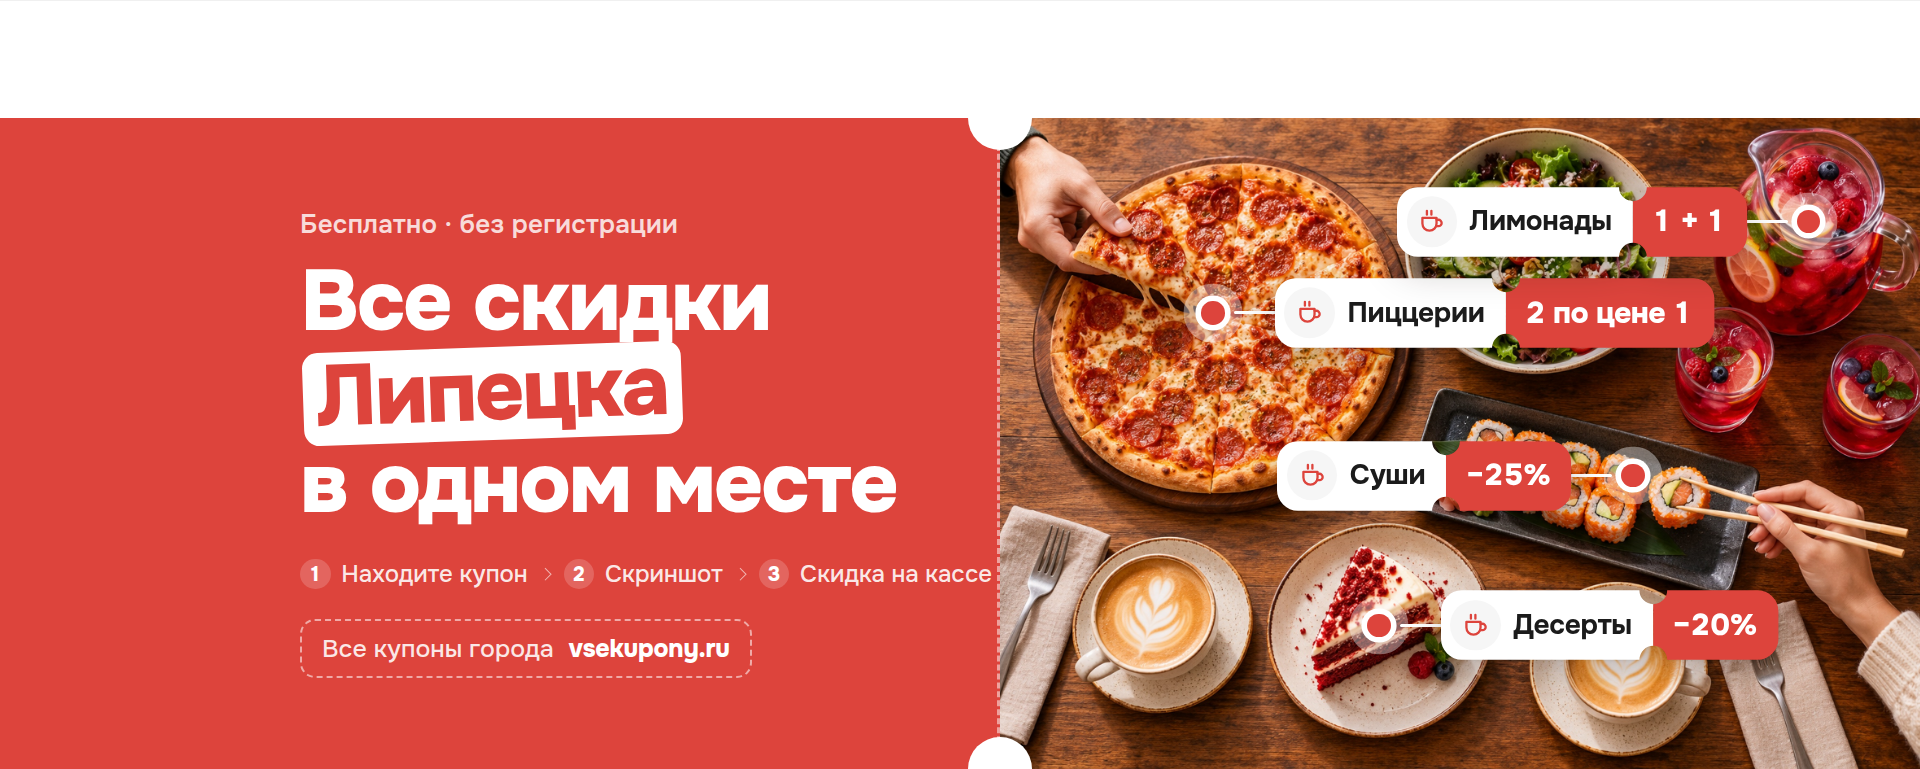
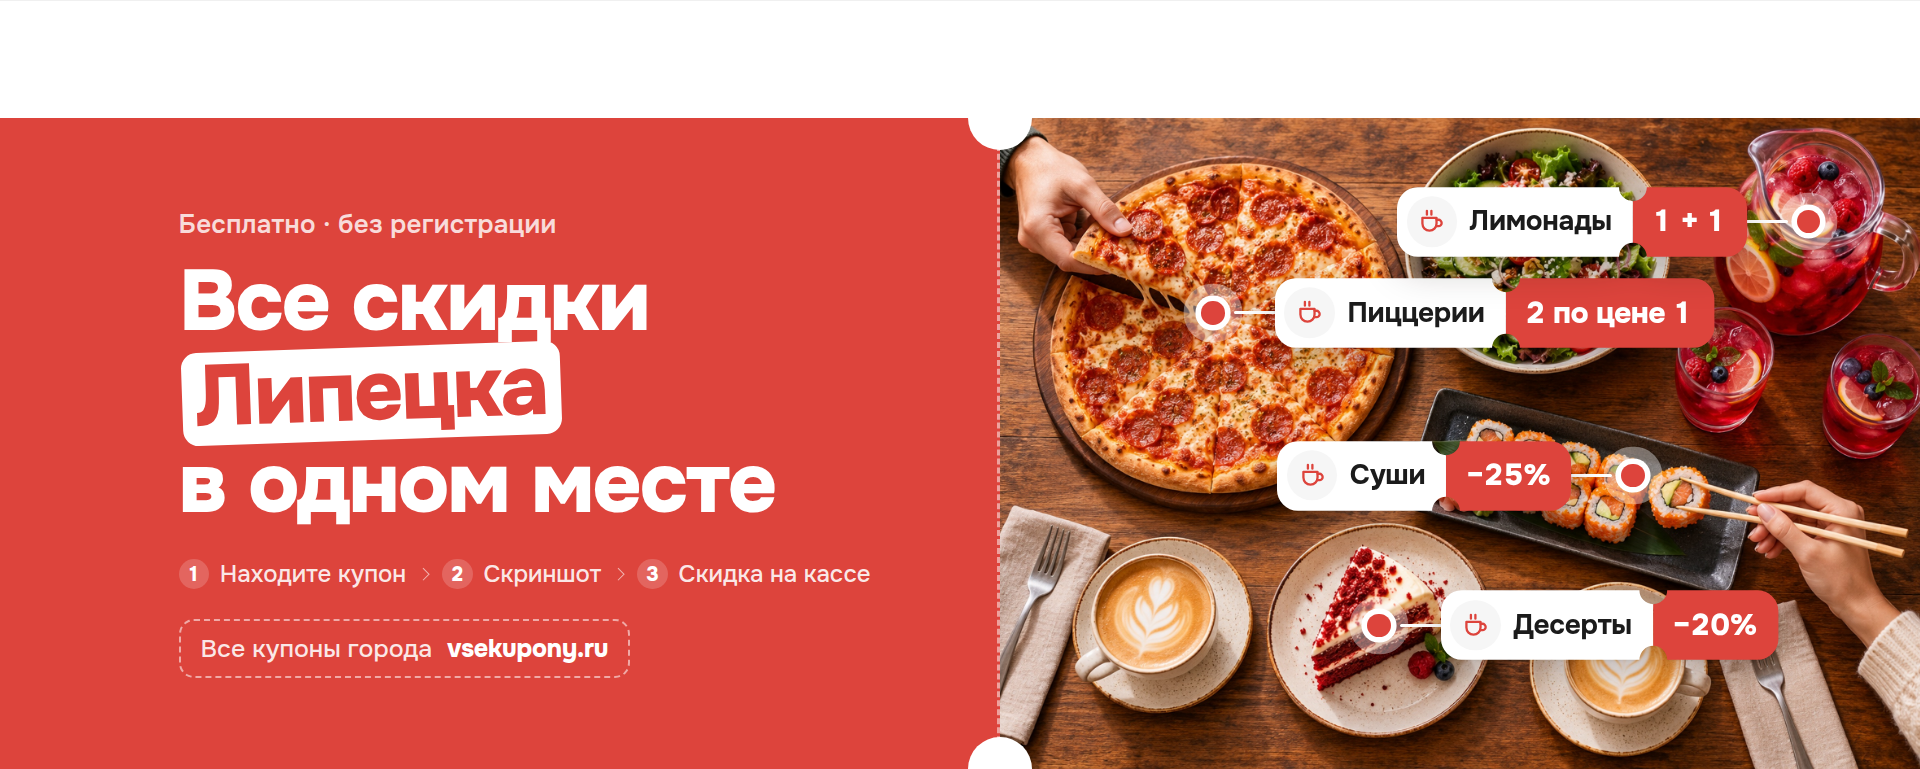
Соцсети: I2 — подложка-купон, корешок купона по центру, мобильный купон в форме купона, аватары списком с видом в ВК
Claude-Session: https://claude.ai/code/session_01VVvPvHVUv25TaftPDqbPP7

diff --git a/social-kit/kit.css b/social-kit/kit.css
@@ -891,3 +891,30 @@ body{
 :is(#covers2,#vkprev) .vk-cover.cv-stone-panel .txt{
   left:250px;padding:44px 60px 48px;background:#fff;border-radius:40px;
   box-shadow:0 30px 70px -30px rgba(40,10,8,.45)}
+
+.av-vk{display:flex;align-items:flex-start;gap:24px;margin:-16px 0 48px}
+.av-vk .vk-inline{margin:0}
+.av-vk .vkp{zoom:.8}.av-vk .vkm{zoom:.55}
+.bare .av-vk{display:none}
+/* I2: подложка в форме купона — полукруглые вырезы по центру боковых сторон.
+   Фигура — псевдоэлемент с маской, тень — drop-shadow по её контуру */
+:is(#covers2,#vkprev) .vk-cover.cv-stone-panel .txt{
+  background:none;box-shadow:none;isolation:isolate;
+  filter:drop-shadow(0 22px 30px rgba(40,10,8,.28))}
+.vk-cover.cv-stone-panel .txt::before{
+  content:"";position:absolute;inset:0;z-index:-1;background:#fff;border-radius:40px;
+  -webkit-mask:radial-gradient(circle 30px at 0 50%,#0000 98%,#000) left/51% 100% no-repeat,
+               radial-gradient(circle 30px at 100% 50%,#0000 98%,#000) right/51% 100% no-repeat;
+          mask:radial-gradient(circle 30px at 0 50%,#0000 98%,#000) left/51% 100% no-repeat,
+               radial-gradient(circle 30px at 100% 50%,#0000 98%,#000) right/51% 100% no-repeat}
+/* Корешок купона: блок текста по центру левой части (правка 05.10) */
+.vk-cover.cpn .cpn__l{padding-left:0;align-items:center}
+.vk-cover.cpn .cpn__l > *{width:640px}
+.vk-cover.cpn .cpn__l .cpn__code{width:auto;align-self:auto;margin-right:auto;margin-left:calc(50% - 320px)}
+/* Телефон: в самом файле купон той же формы, что в превью ВК (правка 05.10):
+   ширина — видимая полоса 118–962, вырезы на её краях, низ скруглён */
+:is(#covers2,#vkprev) .vk-mob2.cpn .cpn__ph{left:118px;right:118px;border-radius:36px 36px 0 0}
+.vk-mob2.cpn .cpn__l{left:118px;right:118px;border-radius:0 0 36px 36px}
+.vk-mob2.cpn .cpn__side{left:282px;right:40px}
+.vk-mob2.cpn .cpn__n--a{left:83px}
+.vk-mob2.cpn .cpn__n--b{left:927px}

diff --git a/social-kit/kit.js b/social-kit/kit.js
@@ -621,16 +621,27 @@ function vkPreview() {
   document.querySelectorAll(".vk-inline").forEach(n => n.remove());
   document.querySelectorAll(".art.vk-cover").forEach(art => art.closest(".fit").after(vkDesk(art, noLogo)));
   document.querySelectorAll(".art.vk-mob2, .art.vk-mob").forEach(art => art.closest(".fit").after(vkPhone(art)));
+  avatarInVk();
 }
-document.getElementById("vkp-avas").innerHTML = AVAS.map(([id, , , name], i) =>
-  `<button data-a="${id}"${id === vkpAva ? ' class="is-on"' : ""}>${i + 1}. ${name}</button>`).join(" ");
-document.getElementById("vkp-avas").addEventListener("click", e => {
-  const b = e.target.closest("button"); if (!b) return;
-  vkpAva = b.dataset.a;
-  document.querySelectorAll("#vkp-avas button").forEach(x => x.classList.toggle("is-on", x === b));
-  vkPreview();
-});
-document.getElementById("vkp-nologo").addEventListener("change", vkPreview);
+/* Аватары списком (правка 05.10): у каждого варианта — он же в шапке ВК
+   на компьютере и в приложении, на обложке I2 */
+function avatarInVk() {
+  const cov = document.getElementById("vk-cover-Istone2"), mob = document.getElementById("vk-mob-Istone2");
+  if (!cov) return;
+  const keep = vkpAva;
+  document.querySelectorAll(".av-vk").forEach(n => n.remove());
+  AVAS.forEach(([id]) => {
+    const row = document.getElementById("ava-" + id)?.closest(".av-row");
+    if (!row) return;
+    vkpAva = id;
+    const box = document.createElement("div");
+    box.className = "av-vk";
+    box.append(vkDesk(cov, false), vkPhone(mob));
+    row.after(box);
+  });
+  vkpAva = keep;
+}
+
 
 loadMobPhotos();
 document.fonts.ready.then(() => { shapeTickets(); shapeStubs(); fitAvatarTowns(); avatarSizes(); vkPreview(); });

diff --git a/social-kit/index.html b/social-kit/index.html
@@ -14,6 +14,7 @@
 </head>
 <body>
 <main class="page">
+  <input type="checkbox" id="vkp-nologo" hidden>
 
   <header class="page__head">
     <h1>Упаковка соцсетей</h1>
@@ -22,11 +23,6 @@
       <code>python social-kit/render.py</code>. Другой город: <a href="?city=Ельца&amp;town=Елец">?city=Ельца&amp;town=Елец</a> (city — в заголовках, родительный падеж; town — на аватарах).</p>
   </header>
 
-  <!-- Переключатель аватара для макетов «как в ВК» под каждой обложкой -->
-  <div class="vkp-ctl" id="vkprev">Аватар в макетах ВК:
-    <span id="vkp-avas"></span>
-    <label><input type="checkbox" id="vkp-nologo"> без шара на обложке — знак только на аватаре</label>
-  </div>
 
   <!-- ===================================================== Обложки 2.0 -->
   <!-- Правка 05.10: прежние обложки сухие — шар, заголовок и две мелкие
